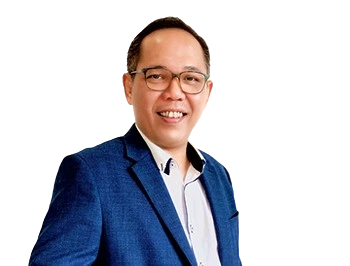
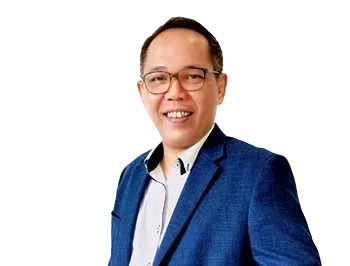
style: horizontally flip Athasart WebP photo and unify card styling to align with other teachers

diff --git a/app/[lang]/people/teachers/page.tsx b/app/[lang]/people/teachers/page.tsx
@@ -122,73 +122,48 @@ export default async function TeachersPage({
                 .toUpperCase()
             : name.slice(0, 2);
 
-          const isAthasart = teacher.id === 1;
-
           return (
             <div
               key={teacher.id}
-              className={`w-full h-[300px] border border-zinc-200 dark:border-zinc-800 overflow-hidden transition-all duration-300 hover:shadow-lg select-none flex flex-col justify-end relative group ${
-                isAthasart
-                  ? "bg-gradient-to-b from-[#fbc6a9] to-[#e06e30] hover:shadow-orange-500/10"
-                  : "bg-black hover:shadow-black/20 dark:hover:shadow-black/40"
-              }`}
+              className="w-full h-[300px] bg-black border border-zinc-200 dark:border-zinc-800 overflow-hidden transition-all duration-300 hover:shadow-lg hover:shadow-black/20 dark:hover:shadow-black/40 cursor-pointer select-none flex flex-col justify-end relative group"
             >
               {/* Full Background Portrait Image */}
               {teacher.photo ? (
                 <img
                   src={`${teacher.photo}?v=5`}
                   alt={name}
-                  className={`absolute right-0 bottom-0 h-full w-auto object-contain object-right z-0 ${
-                    isAthasart
-                      ? ""
-                      : "transition-transform duration-500 group-hover:scale-105 translate-x-[15%]"
-                  }`}
+                  className="absolute right-0 bottom-0 h-full w-auto object-contain object-right transition-transform duration-500 group-hover:scale-105 translate-x-[15%] z-0"
                 />
               ) : (
                 <div className="absolute inset-0 w-full h-full bg-zinc-900 flex items-center justify-center text-white text-3xl font-bold z-0">
                   {initials}
                 </div>
               )}
-              {/* Vignette & Gradient Overlays (Skip for Athasart) */}
-              {!isAthasart && (
-                <>
-                  <div className="absolute inset-0 bg-[radial-gradient(ellipse_at_center,rgba(0,0,0,0)_20%,rgba(0,0,0,0.85)_100%)] z-10 pointer-events-none" />
-                  <div className="absolute inset-0 bg-gradient-to-t from-black/95 via-black/30 to-transparent z-10" />
-                </>
-              )}
+              {/* Vignette Overlay (cinematic darkened edges) */}
+              <div className="absolute inset-0 bg-[radial-gradient(ellipse_at_center,rgba(0,0,0,0)_20%,rgba(0,0,0,0.85)_100%)] z-10 pointer-events-none" />
+              {/* Premium Dark Gradient Overlay at the bottom for readability */}
+              <div className="absolute inset-0 bg-gradient-to-t from-black/95 via-black/30 to-transparent z-10" />
 
               {/* Profile Info - Floated at the bottom-left */}
               <div className="p-6 flex flex-col gap-3 z-20 text-left w-full">
                 <div>
-                  <span className={`inline-block px-2.5 py-0.5 text-[10px] font-semibold rounded-md uppercase tracking-wider select-none ${
-                    isAthasart
-                      ? "bg-black/10 text-zinc-950 border border-black/10"
-                      : "bg-white/10 backdrop-blur-md text-white border border-white/20"
-                  }`}>
+                  <span className="inline-block px-2.5 py-0.5 text-[10px] font-semibold bg-white/10 backdrop-blur-md text-white rounded-md border border-white/20 uppercase tracking-wider select-none">
                     {isTh ? "อาจารย์ประจำสาขา" : "Faculty Member"}
                   </span>
-                  <h3 className={`text-lg font-bold mt-2 transition-colors line-clamp-1 ${
-                    isAthasart
-                      ? "text-zinc-950"
-                      : "text-white group-hover:text-sky-300"
-                  }`}>
+                  <h3 className="text-lg font-bold text-white mt-2 group-hover:text-sky-300 transition-colors line-clamp-1">
                     {name}
                   </h3>
                   {teacher.advise_years && teacher.advise_years.length > 0 && (
-                    <p className={`text-xs mt-1 font-medium ${
-                      isAthasart ? "text-zinc-800" : "text-white/60"
-                    }`}>
+                    <p className="text-xs text-white/60 mt-1 font-medium">
                       {isTh ? "ชั้นปีที่ดูแล: " : "Advise: "}
                       {teacher.advise_years.map((y: string) => `${isTh ? "ปี " : "Year "}${y}`).join(", ")}
                     </p>
                   )}
                 </div>
                 {teacher.contact && (
-                  <div className={`text-xs mt-1 border-t pt-3 flex items-center justify-between ${
-                    isAthasart ? "border-black/10 text-zinc-800" : "border-white/10 text-white/70"
-                  }`}>
+                  <div className="text-xs text-white/70 mt-1 border-t border-white/10 pt-3 flex items-center justify-between">
                     <span className="truncate">{teacher.contact}</span>
-                    <span className={`${isAthasart ? "text-zinc-950" : "text-white"} group-hover:translate-x-1 transition-transform`}>→</span>
+                    <span className="text-white group-hover:translate-x-1 transition-transform">→</span>
                   </div>
                 )}
               </div>